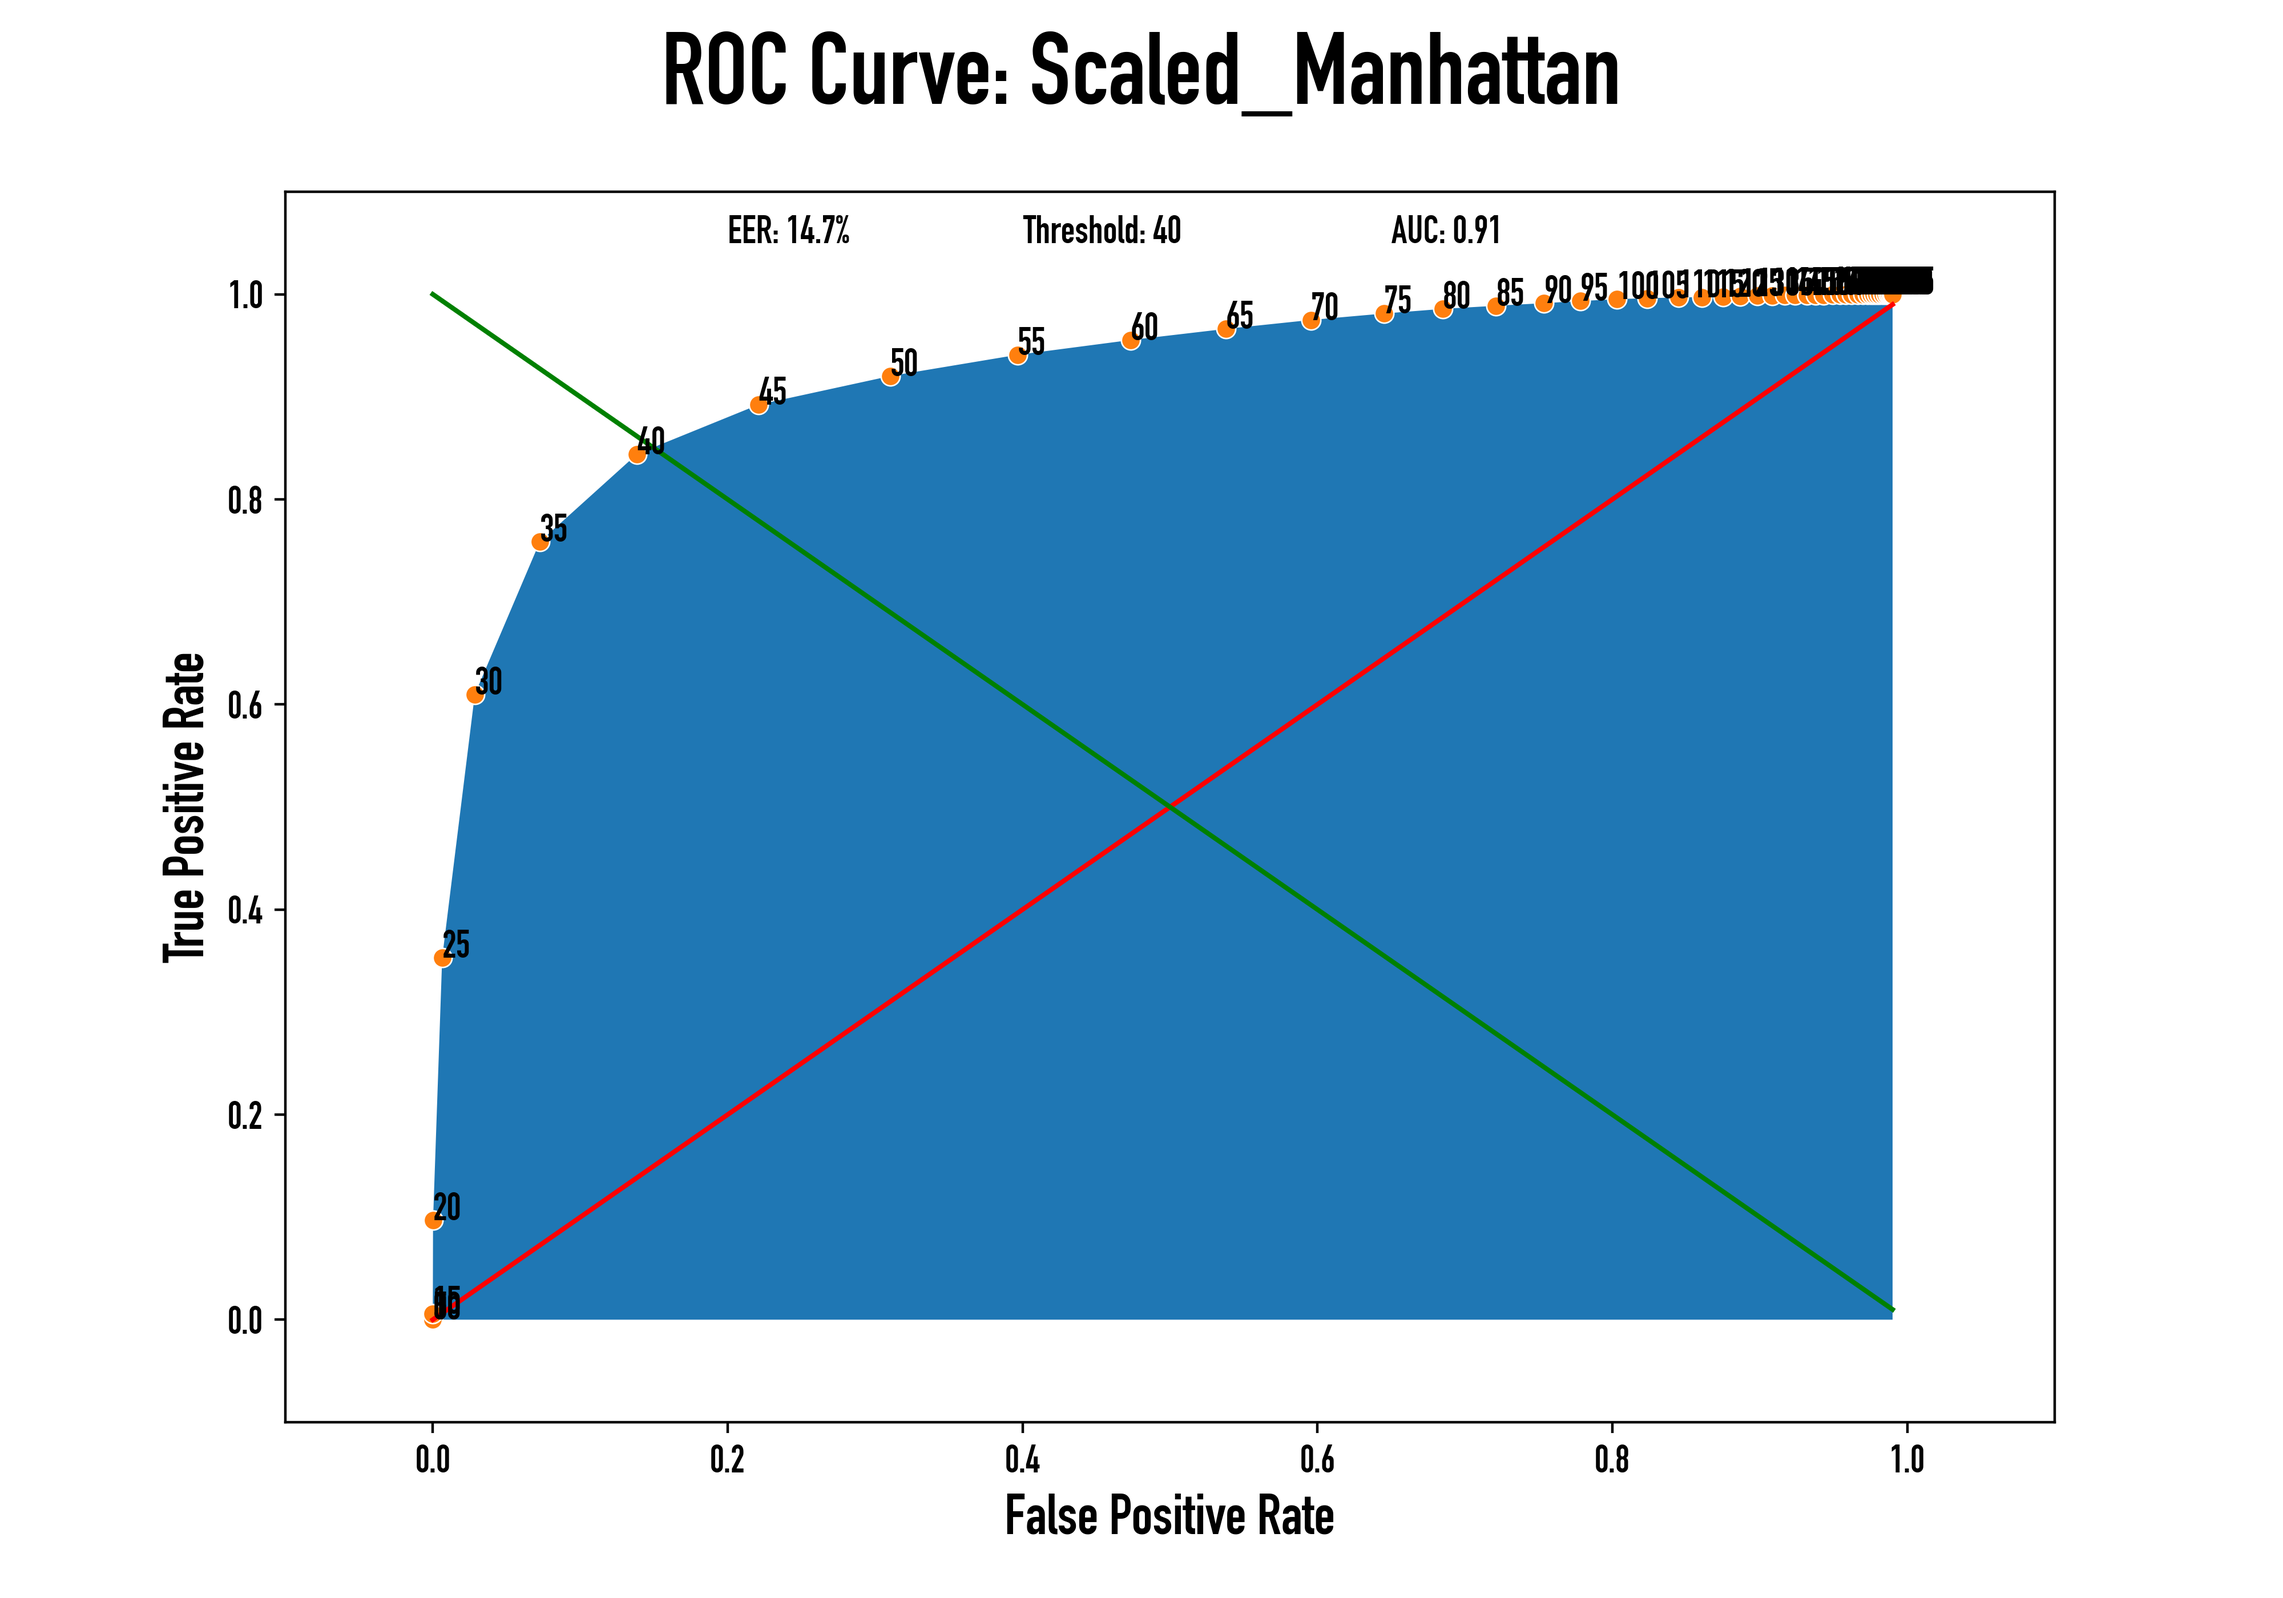
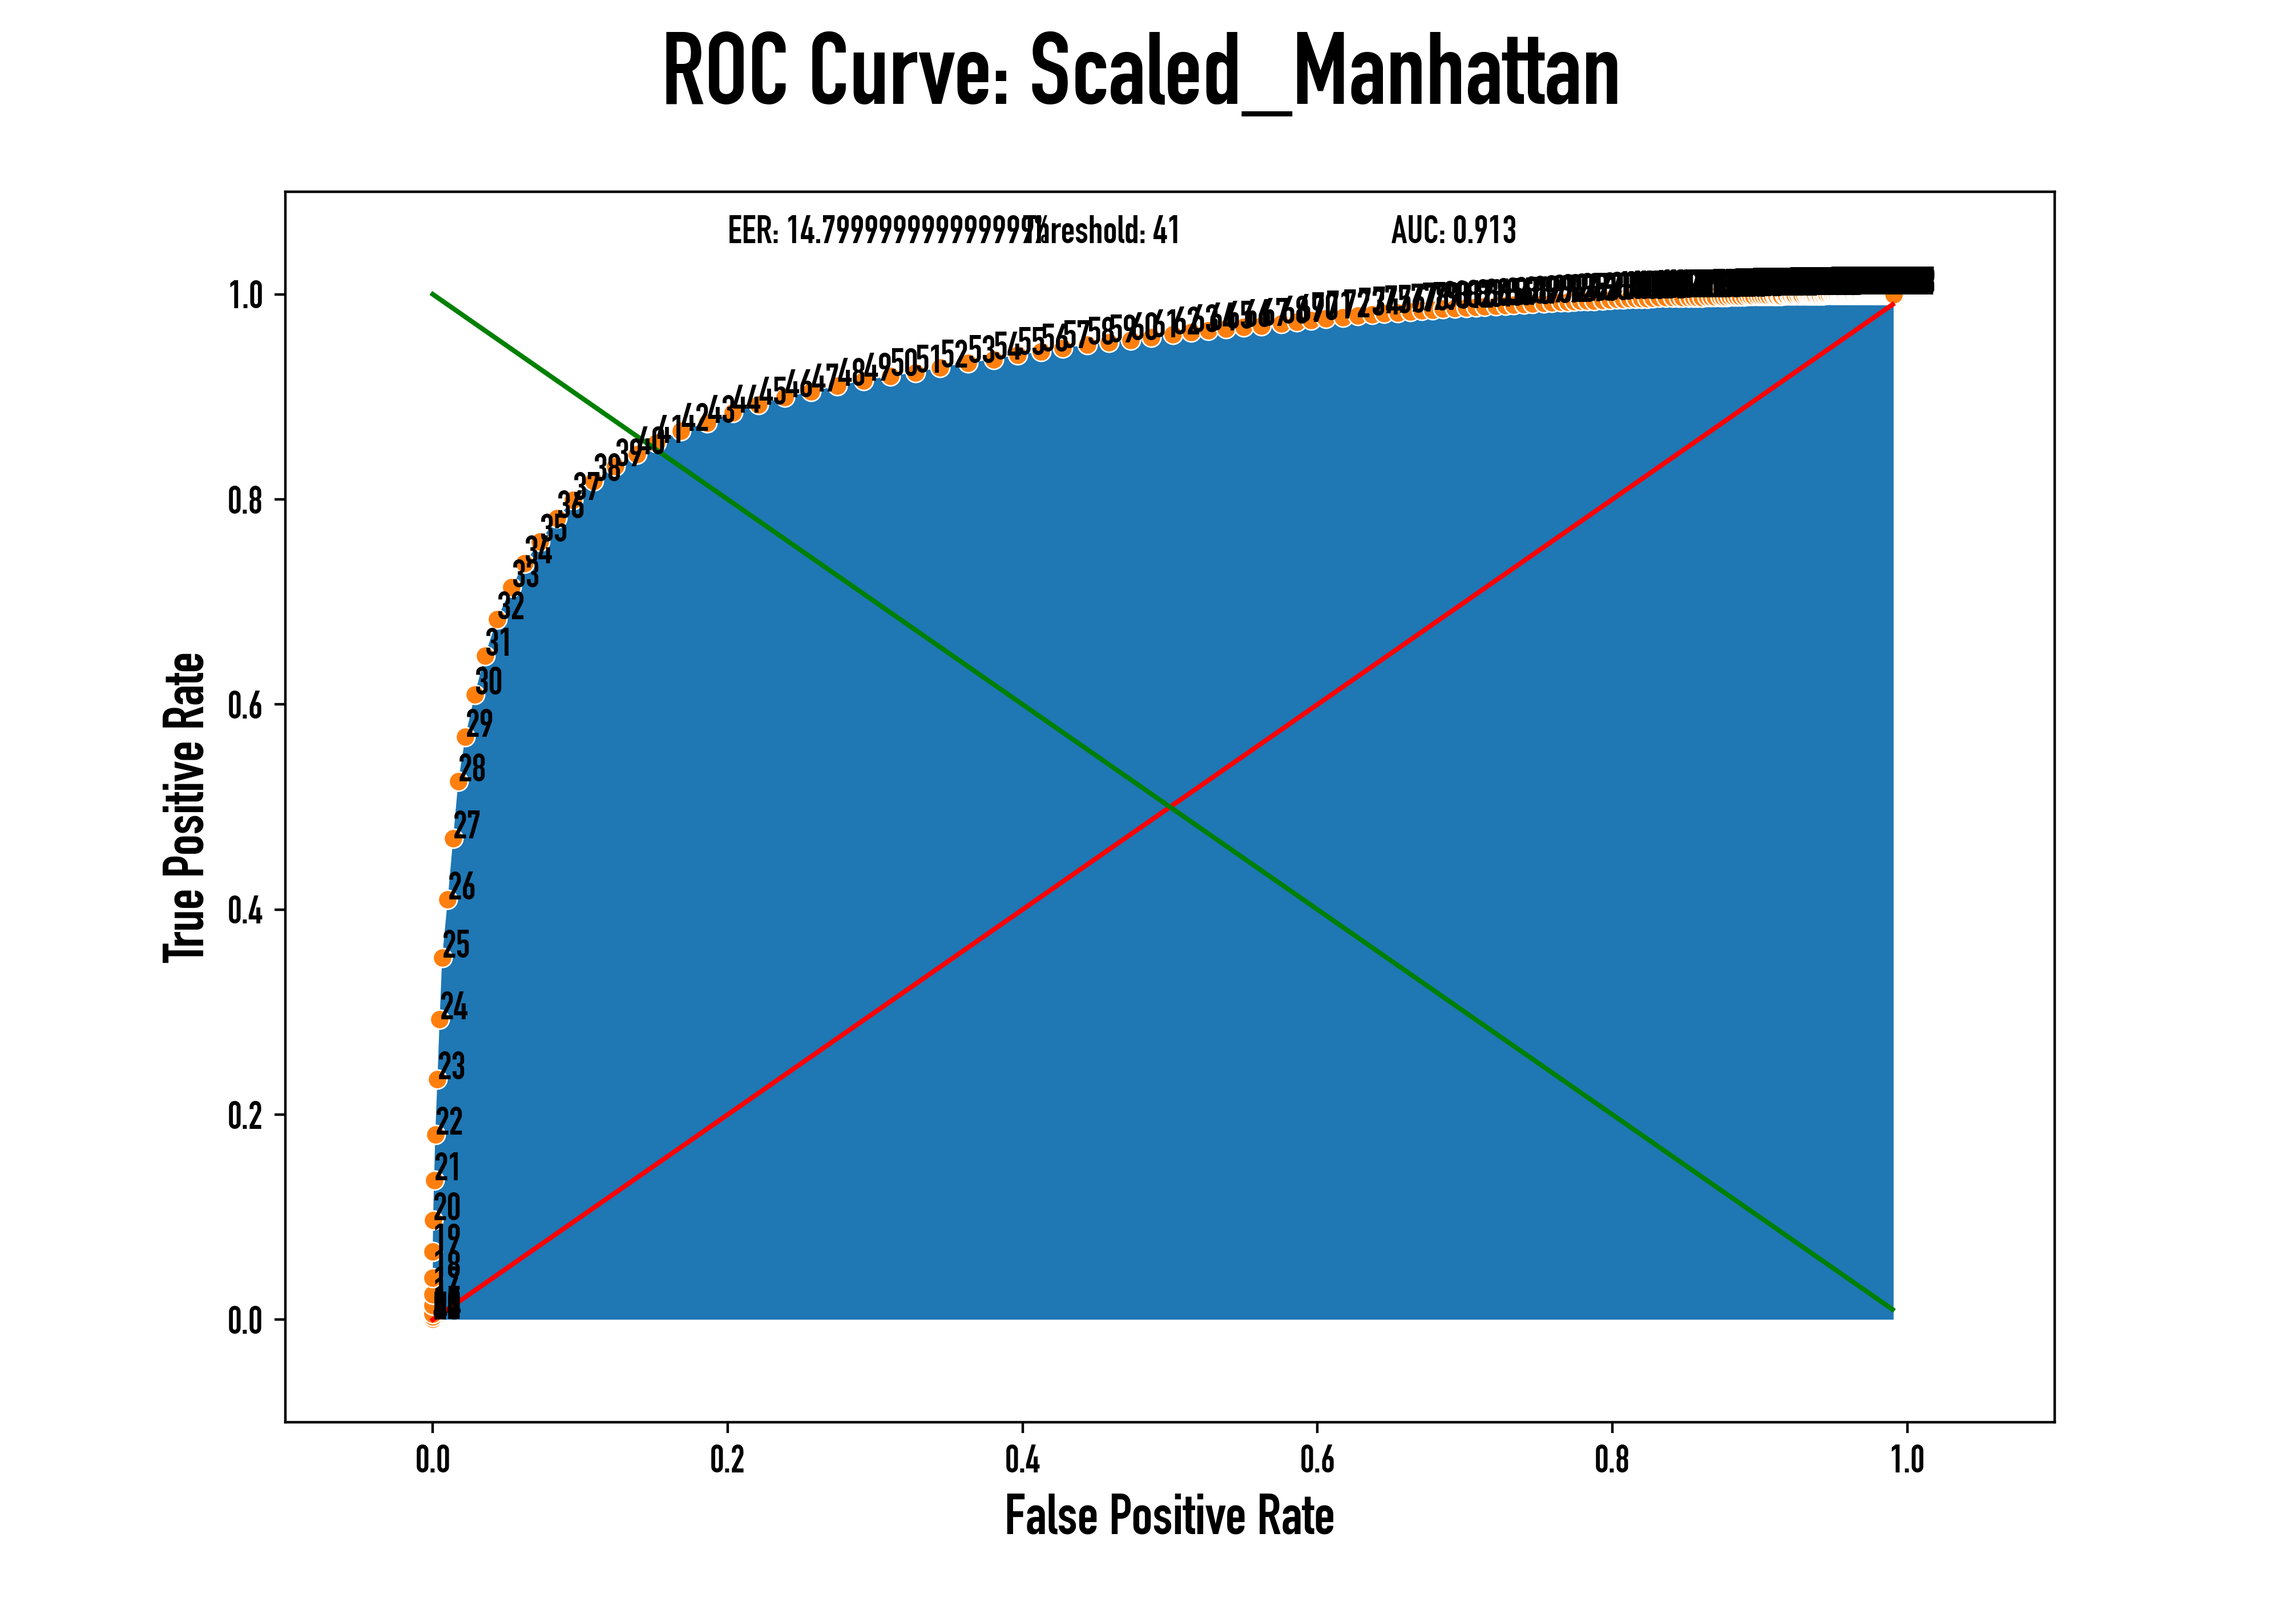
Nothing

diff --git a/keystroke_dynamics/cmu_exploration/cmu_modelling.py b/keystroke_dynamics/cmu_exploration/cmu_modelling.py
@@ -181,7 +181,7 @@ def main_wrapper():
         "model": Scaled_Manhattan, 
         "t_start": 0,
         "t_stop": 250, 
-        "t_step": 5, 
+        "t_step": 1, 
     }
 
     main(**kwargs)
